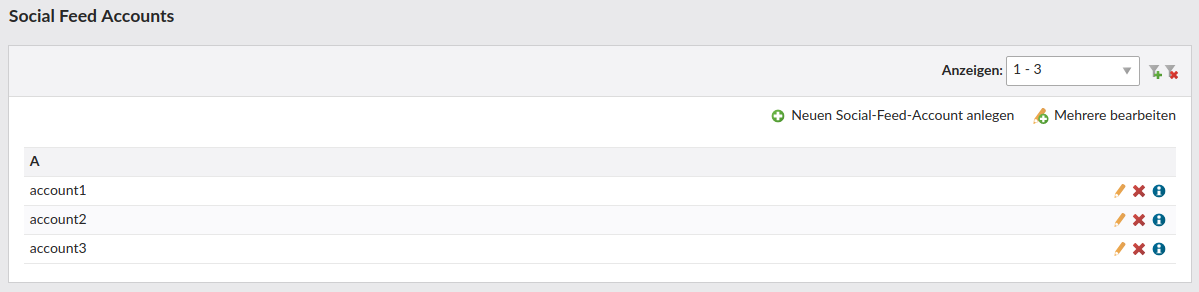
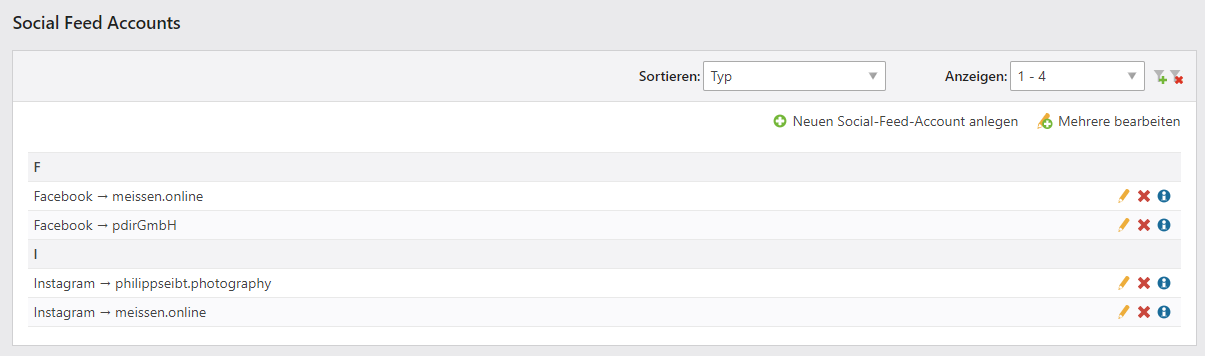
update social feed docs

diff --git a/docs/social-feed/einrichtung-facebook-stream.md b/docs/social-feed/einrichtung-facebook-stream.md
@@ -1,13 +1,5 @@
 # Einrichtung des Facebook-Streams
 
-Nach der Installation des Moduls werden Sie im linken Menü unter **PDIR APPS** den neuen Menüpunkt **Social Feed Accounts** sehen.
-
-![](../_images/social-feed/neuer_menupunkt_socialfeed.png)
-
-Auf dieser Seite können Sie neue Accounts anlegen und deren Einstellungen bearbeiten.
-
-![](../_images/social-feed/accountliste_socialfeed.png)
-
 ## Facebook-App anlegen
 
 Wenn Sie noch keine eigene Facebook App haben, müssen Sie diese erst anlegen. Ohne App können Sie keinen Social Feed Stream auf Ihrer Webseite anzeigen. Wie Sie eine App registrieren und konfigurieren, können Sie auf folgender Seite nachlesen: [https://developers.facebook.com/docs/apps/register?locale=de\_DE](https://developers.facebook.com/docs/apps/register?locale=de_DE).
@@ -22,7 +14,7 @@ Bevor Sie einen Account anlegen, sollten Sie ein News-Archiv anlegen, in das die
 
 ## Account anlegen
 
-Um einen Account anzulegen, wählen Sie die Schaltfläche **Neuen Social-Feed Account anlegen** aus. Anschließend öffnet sich eine Seite mit dem Formular, wo Sie alle notwendigen Daten zum Account hinterlegen müssen. Nachdem Sie gespeichert haben, kann es sein, dass es 2-3 Minuten dauert bis alle Beiträge importiert wurden.
+Um einen Account anzulegen, wählen Sie die Schaltfläche **Neuen Social-Feed Account anlegen** und beim Typ **Facebook** aus. Anschließend öffnet sich eine Seite mit dem Formular, wo Sie alle notwendigen Daten zum Account hinterlegen müssen. Nachdem Sie gespeichert haben, kann es sein, dass es 2-3 Minuten dauert bis alle Beiträge importiert wurden.
 
 **Facebook-Account:** Geben Sie hier den Namen des Facebook-Accounts ein. Den Namen sehen Sie immer in der URL, wenn Sie Ihre Facebook-Seite aufrufen \(z. B. [facebook.com/account-name/](https://www.facebook.com/**meissen.online**/%29%29%29\).
 
@@ -42,33 +34,4 @@ _\(Die eingebenen Daten im Screenshot sind lediglich Beispieldaten\)_![](../_ima
 
 ## Modul anlegen
 
-Wenn Sie Ihre Accounts angelegt haben, legen Sie nun das dazugehörige Modul an. Dazu navigieren Sie zu **Themes &gt; Die Frontend-Module des Theme ID x bearbeiten **\(Zahnrad-Icon\) und legen ein neues Modul an.
-
-Als Modultyp wählen Sie unter Nachrichten die **Nachrichtenliste** aus. Wählen Sie die entsprechenden **Nachrichtenarchive** aus, die Sie in Ihrem Social Feed Stream darstellen möchten. Über das Feld **Gesamtzahl der Beiträge** können Sie noch die Anzahl der Beiträge begrenzen. Möchten Sie eine Pagination darstellen, füllen Sie das Feld **Elemente pro Seite** aus.
-
-Beim Nachrichtentemplate müssen Sie das Template **news\_social\_feed** auswählen. Beim individuellen Template wählen Sie **mod\_newslist\_social\_feed** aus. Unter Bildeinstellungen bei **Bildgröße** können Sie die Größe der Bilder anpassen.
-
-![](../_images/social-feed/template_auswahl_socialfeed.png)
-
-Unter dem Punkt Social Feed Einstellungen können Sie die **maximale Textlänge**, die **Anzahl der Spalten** einstellen sowie **Masonry** aktivieren/deaktivieren und **Bilder anzeigen/ausblenden**.
-
-![](../_images/social-feed/socialfeed_einstellungen.png)
-
-## Modul platzieren
-
-Nachdem Sie das Modul angelegt haben, platzieren Sie das Modul an einer beliebigen Stelle.
-
-## Template-Anpassungen
-
-Wenn Sie Contao 4.4 oder 4.5 nutzen, ist das Beitragsbild noch nicht standardmäßig verlinkt. Wenn Sie das Bild verlinken möchten, müssten Sie das Template **news\_social\_feed.html5** wie folgt anpassen.
-
-```php
-<a href="<?= $this->url ?>" target="_blank">
-    <?php if ($this->addImage && $this->sfImages): ?>
-        <?php $this->insert('image', $this->arrData); ?>
-    <?php endif; ?>
-</a>
-```
-
-
-
+Auf der Seite [Einrichtung](/social-feed/einrichtung.md) finden Sie alle weiteren Hinweise zum Anlegen und Platzieren des Moduls.

diff --git a/docs/social-feed/einrichtung-instagram-stream.md b/docs/social-feed/einrichtung-instagram-stream.md
@@ -1,0 +1,24 @@
+# Einrichtung des Instagram-Streams
+
+## News-Archiv anlegen
+
+Bevor Sie einen Account anlegen, sollten Sie ein News-Archiv anlegen, in das die Instagram-Posts importiert werden sollen. Eine Weiterleitungsseite müssen Sie beim News-Archiv angeben, da dies ein Pflichtfeld ist, wobei es für das Social Feed Bundle nicht relevant ist, da es keine News-Detailseite gibt. Idealerweise legen Sie für jeden Instagram-Account ein neues News-Archiv aus, da Sie so im Nachrichtenlisten-Modul später auch einzelne Accounts wieder abwählen können.
+
+## Account anlegen
+
+Um einen Account anzulegen, wählen Sie die Schaltfläche **Neuen Social-Feed Account anlegen** und beim Typ **Instagram** aus. Anschließend öffnet sich eine Seite mit dem Formular, wo Sie alle notwendigen Daten zum Account hinterlegen müssen. Nachdem Sie gespeichert haben, kann es sein, dass es 2-3 Minuten dauert bis alle Beiträge importiert wurden.
+
+**Instagram-Account:** Geben Sie hier den Namen des Instagram-Accounts ein. Den Namen sehen Sie immer in der URL oder beim Profil selbst.
+
+**Maximale Anzahl an Posts:** Hier können Sie die Anzahl der zu importierenden Posts bestimmen.
+
+**News-Archiv:** Wählen Sie hier das News-Archiv aus, in welches die Facebook-Posts importiert werden sollen.
+
+**Ausführung des Cronjobs:** Wählen Sie hier aus, wie oft der Cronjob aufgerufen werden soll, um neue Facebook-Posts zu importieren. Sie haben folgende Einstellmöglichkeiten: kein Cronjob, minütlich, stündlich, täglich, wöchentlich und monatlich.
+
+**Letzter Import:** Die zwei Textfelder für den letzten Import dienen nur zur Information, wann der letzte Import stattfand.
+
+_\(Die eingebenen Daten im Screenshot sind lediglich Beispieldaten\)_![](../_images/social-feed/instagram_account_einrichtung.png)
+
+
+

diff --git a/docs/social-feed/einrichtung.md b/docs/social-feed/einrichtung.md
@@ -1,0 +1,31 @@
+# Einrichtung
+
+## Modul anlegen
+
+Wenn Sie Ihre Accounts angelegt haben, legen Sie nun das dazugehörige Modul an. Dazu navigieren Sie zu **Themes &gt; Die Frontend-Module des Theme ID x bearbeiten **\(Zahnrad-Icon\) und legen ein neues Modul an.
+
+Als Modultyp wählen Sie unter Nachrichten die **Nachrichtenliste** aus. Wählen Sie die entsprechenden **Nachrichtenarchive** aus, die Sie in Ihrem Social Feed Stream darstellen möchten. Über das Feld **Gesamtzahl der Beiträge** können Sie noch die Anzahl der Beiträge begrenzen. Möchten Sie eine Pagination darstellen, füllen Sie das Feld **Elemente pro Seite** aus.
+
+Beim Nachrichtentemplate müssen Sie das Template **news\_social\_feed** auswählen. Beim individuellen Template wählen Sie **mod\_newslist\_social\_feed** aus. Unter Bildeinstellungen bei **Bildgröße** können Sie die Größe der Bilder anpassen.
+
+![](../_images/social-feed/template_auswahl_socialfeed.png)
+
+Unter dem Punkt Social Feed Einstellungen können Sie die **maximale Textlänge**, die **Anzahl der Spalten** einstellen sowie **Masonry** aktivieren/deaktivieren und **Bilder anzeigen/ausblenden**.
+
+![](../_images/social-feed/socialfeed_einstellungen.png)
+
+## Modul platzieren
+
+Nachdem Sie das Modul angelegt haben, platzieren Sie das Modul an einer beliebigen Stelle.
+
+## Template-Anpassungen
+
+Wenn Sie Contao 4.4 oder 4.5 nutzen, ist das Beitragsbild noch nicht standardmäßig verlinkt. Wenn Sie das Bild verlinken möchten, müssten Sie das Template **news\_social\_feed.html5** wie folgt anpassen.
+
+```php
+<a href="<?= $this->url ?>" target="_blank">
+    <?php if ($this->addImage && $this->sfImages): ?>
+        <?php $this->insert('image', $this->arrData); ?>
+    <?php endif; ?>
+</a>
+```

diff --git a/docs/social-feed/index.md b/docs/social-feed/index.md
@@ -4,7 +4,9 @@
 
 ## Social Feed für Contao 4
 
-Die Social Feed Erweiterung zeigt einen Feed aus den beliebtesten sozialen Netzwerken an. Zur Zeit wird nur Facebook unterstützt, weitere Kanäle folgen in Zukunft. Die Facebook-Posts werden direkt in die Datenbank geschrieben, als News angelegt und können anschließend mit dem Modultyp Nachrichtenliste auf der Webseite angezeigt werden.
+Die Social Feed Erweiterung zeigt einen Feed aus den beliebtesten sozialen Netzwerken an (Facebook und Instagram). Zur Zeit wird Facebook und Instagram unterstützt, weitere Kanäle folgen in Zukunft. Die Posts werden direkt in die Datenbank geschrieben, als News angelegt und können anschließend mit dem Modultyp Nachrichtenliste auf der Webseite angezeigt werden.
+
+Auf [contao-themes.net](https://contao-themes.net/sponsoring.html?isorc=3) können Sie die Weiterentwicklung unserer Themes und Erweiterungen durch das Kaufen von speziellen Paketen oder das Spenden von Entwicklungsstunden unterstützen.
 
 ### Installation
 

diff --git a/docs/social-feed/_sidebar.md b/docs/social-feed/_sidebar.md
@@ -6,8 +6,11 @@
 - [Social Feed](social-feed/index.md)
   - [Installation](social-feed/installation.md)
   - <strong>Facebook</strong>
-    - [Einrichtung](social-feed/einrichtung-facebook-stream.md)
+    - [Einrichtung des Feed](social-feed/einrichtung-facebook-stream.md)
     - [Access Token](social-feed/generierung-des-facebook-access-tokens.md)
+  - <strong>Instagram</strong>
+    - [Einrichtung des Feed](social-feed/einrichtung-instagram-stream.md)
+  - [Weitere Einrichtung](social-feed/einrichtung.md)
     
 ---
 

diff --git a/docs/social-feed/installation.md b/docs/social-feed/installation.md
@@ -12,3 +12,10 @@ Das Modul ist mit Contao 4.3 oder höher kompatibel.
 
 ![](../_images/social-feed/installation_socialfeed.png)
 
+Nach der Installation des Moduls werden Sie im linken Menü unter **PDIR APPS** den neuen Menüpunkt **Social Feed Accounts** sehen.
+
+![](../_images/social-feed/neuer_menupunkt_socialfeed.png)
+
+Auf dieser Seite können Sie neue Accounts anlegen und deren Einstellungen bearbeiten.
+
+![](../_images/social-feed/accountliste_socialfeed.png)
